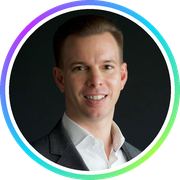
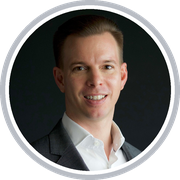
Add files via upload

Changed region(s): [[0.0, 0.0, 1.0, 1.0]]

diff --git a/reinhard.html b/reinhard.html
@@ -7,7 +7,7 @@
 button{background:#00AFCA;color:#fff;border:0;border-radius:8px;padding:12px 22px;font-size:15px;font-weight:700;cursor:pointer}
 #ok{display:none;color:#1a7f4b;font-weight:700;margin-left:12px}ol{color:#39424F;line-height:1.7}</style></head><body><div class="w">
 <h1>Dr Reinhard Fellmann</h1><p>Your BITX email signature. Click the button, then paste it into Gmail.</p>
-<div class="box" id="sig"><table cellpadding="0" cellspacing="0" border="0" bgcolor="#FFFFFF" style="border-collapse:collapse;background-color:#FFFFFF;font-family:'Inter',Helvetica,Arial,sans-serif;"><tr><td style="padding:8px 0 4px 0;"><table cellpadding="0" cellspacing="0" border="0" style="border-collapse:collapse;"><tr><td valign="middle" style="width:90px;padding-right:13px;"><img src="https://ichrak-l.github.io/email-assets-277/circle-reinhard@2x.png?v=39ccdc66" width="90" height="90" alt="Dr Reinhard Fellmann" style="display:block;width:90px;height:90px;border:0;"></td><td valign="middle" style="padding-right:33px;"><div style="font-family:'Inter',Helvetica,Arial,sans-serif;font-size:15px;line-height:18px;font-weight:800;letter-spacing:-0.2px;color:#040C17;white-space:nowrap;">Dr Reinhard Fellmann</div><div style="font-family:'Inter',Helvetica,Arial,sans-serif;font-size:10px;line-height:13px;color:#040C17;padding-top:2px;white-space:nowrap;">CEO</div><table cellpadding="0" cellspacing="0" border="0" style="border-collapse:collapse;margin-top:10px;"><tr><td valign="top" style="padding:2px 8px 0 0;width:11px;"><img src="https://ichrak-l.github.io/email-assets-277/icon-phone@2x.png" width="11" height="11" alt="Phone" style="display:block;width:11px;height:11px;border:0;"></td><td valign="top" style="padding-top:0px;font-family:'Inter',Helvetica,Arial,sans-serif;font-size:10px;line-height:15px;color:#040C17;white-space:nowrap;"><a href="tel:+971568883855" style="color:#040C17;text-decoration:none;">+971 56 888 3855</a></td></tr><tr><td valign="top" style="padding:6px 8px 0 0;width:11px;"><img src="https://ichrak-l.github.io/email-assets-277/icon-mail@2x.png" width="11" height="11" alt="Email" style="display:block;width:11px;height:11px;border:0;"></td><td valign="top" style="padding-top:4px;font-family:'Inter',Helvetica,Arial,sans-serif;font-size:10px;line-height:15px;color:#040C17;white-space:nowrap;"><a href="mailto:reinhard@bitx.es" style="color:#040C17;text-decoration:none;">reinhard@bitx.es</a></td></tr></table></td><td valign="middle" style="width:1px;font-size:0;line-height:0;"><div style="width:1px;height:96px;background-color:#C9D0D9;font-size:0;line-height:96px;">&nbsp;</div></td><td valign="middle" style="padding-left:22px;padding-right:20px;"><img src="https://ichrak-l.github.io/email-assets-277/logo-bitx@2x.png?v=4dd68a3f" width="59" height="18" alt="BITX" style="display:block;width:59px;height:18px;border:0;"><table cellpadding="0" cellspacing="0" border="0" style="border-collapse:collapse;margin-top:12px;"><tr><td valign="top" style="padding:2px 8px 0 0;width:11px;"><img src="https://ichrak-l.github.io/email-assets-277/icon-pin@2x.png?v=36849157" width="11" height="11" alt="Address" style="display:block;width:11px;height:11px;border:0;"></td><td valign="top" style="padding-top:0px;font-family:'Inter',Helvetica,Arial,sans-serif;font-size:10px;line-height:15px;color:#040C17;white-space:nowrap;"><a href="https://www.google.com/maps/search/?api=1&query=Passeig%20de%20Gr%C3%A0cia%2053%2C%2008007%20Barcelona%2C%20Spain" style="color:#040C17;text-decoration:none;">Passeig de Gr&agrave;cia 53, &Agrave;tic<br>08007 Barcelona, Spain</a></td></tr><tr><td valign="top" style="padding:8px 8px 0 0;width:11px;"><img src="https://ichrak-l.github.io/email-assets-277/icon-web@2x.png" width="11" height="11" alt="Website" style="display:block;width:11px;height:11px;border:0;"></td><td valign="top" style="padding-top:6px;font-family:'Inter',Helvetica,Arial,sans-serif;font-size:10px;line-height:15px;color:#00AFCA;white-space:nowrap;"><a href="https://www.bitx.es" style="color:#00AFCA;text-decoration:underline;">www.bitx.es</a></td></tr></table></td><td valign="middle" style="width:65px;"><img src="https://ichrak-l.github.io/email-assets-277/qr-reinhard@2x.png?v=50467b59" width="65" height="65" alt="Scan to save contact" style="display:block;width:65px;height:65px;border:0;"></td></tr></table><div style="height:1px;line-height:1px;font-size:0;background-color:#C9D0D9;margin:12px 0 9px 0;">&nbsp;</div><div style="max-width:560px;"><p style="margin:0 0 2px 0;font-family:Helvetica,Arial,sans-serif;font-size:8px;line-height:11px;font-weight:bold;letter-spacing:0.4px;color:#040C17;">DISCLAIMER</p><p style="margin:0 0 4px 0;font-family:Helvetica,Arial,sans-serif;font-size:8px;line-height:11px;color:#6B7480;">The information contained in this message and/or any attached files, sent from BITX, S.L., is confidential and/or legally privileged and is intended solely for the use of the individual(s) to whom it is addressed. Please note that your personal data has been incorporated into the processing systems of BITX, S.L., and that, provided the legal requirements are met, you may exercise your rights of access, rectification, restriction of processing, erasure (right to be forgotten), data portability, objection, and withdrawal by sending a written request to <a href="https://www.google.com/maps/search/?api=1&query=Passeig%20de%20Gr%C3%A0cia%2053%2C%2008007%20Barcelona%2C%20Spain" style="color:#6B7480;text-decoration:underline;">Passeig de Gr&agrave;cia 53</a>, &Agrave;tic, 08007 Barcelona (Spain), or by email to <a href="mailto:legal@bitx.es" style="color:#6B7480;text-decoration:underline;">legal@bitx.es</a>.</p><p style="margin:0 0 4px 0;font-family:Helvetica,Arial,sans-serif;font-size:8px;line-height:11px;color:#6B7480;">If you have received this message in error, are not the intended recipient, the employee, or the agent responsible for delivering it, please be advised that any use, disclosure, distribution, or reproduction of this communication is strictly prohibited and may be unlawful. We kindly ask you to notify us immediately and delete the message, as well as destroy any copies you may have. Thank you.</p></div></td></tr></table></div>
+<div class="box" id="sig"><table cellpadding="0" cellspacing="0" border="0" bgcolor="#FFFFFF" style="border-collapse:collapse;background-color:#FFFFFF;font-family:'Inter',Helvetica,Arial,sans-serif;"><tr><td style="padding:8px 0 4px 0;"><table cellpadding="0" cellspacing="0" border="0" style="border-collapse:collapse;"><tr><td valign="middle" style="width:90px;padding-right:13px;"><img src="https://ichrak-l.github.io/email-assets-277/circle-reinhard@2x.png?v=e76f2da4" width="90" height="90" alt="Dr Reinhard Fellmann" style="display:block;width:90px;height:90px;border:0;"></td><td valign="middle" style="padding-right:33px;"><div style="font-family:'Inter','Segoe UI',-apple-system,BlinkMacSystemFont,Helvetica,Arial,sans-serif;font-size:15px;line-height:18px;font-weight:600;letter-spacing:-0.1px;color:#040C17;white-space:nowrap;">Dr Reinhard Fellmann</div><div style="font-family:'Inter',Helvetica,Arial,sans-serif;font-size:10px;line-height:13px;color:#040C17;padding-top:2px;white-space:nowrap;">CEO</div><table cellpadding="0" cellspacing="0" border="0" style="border-collapse:collapse;margin-top:10px;"><tr><td valign="top" style="padding:2px 8px 0 0;width:11px;"><img src="https://ichrak-l.github.io/email-assets-277/icon-phone@2x.png?v=85436a73" width="11" height="11" alt="Phone" style="display:block;width:11px;height:11px;border:0;"></td><td valign="top" style="padding-top:0px;font-family:'Inter',Helvetica,Arial,sans-serif;font-size:10px;line-height:15px;color:#040C17;white-space:nowrap;"><a href="tel:+971568883855" style="color:#040C17;text-decoration:none;">+971 56 888 3855</a></td></tr><tr><td valign="top" style="padding:6px 8px 0 0;width:11px;"><img src="https://ichrak-l.github.io/email-assets-277/icon-mail@2x.png?v=8dcb3aac" width="11" height="11" alt="Email" style="display:block;width:11px;height:11px;border:0;"></td><td valign="top" style="padding-top:4px;font-family:'Inter',Helvetica,Arial,sans-serif;font-size:10px;line-height:15px;color:#040C17;white-space:nowrap;"><a href="mailto:reinhard@bitx.es" style="color:#040C17;text-decoration:none;">reinhard@bitx.es</a></td></tr></table></td><td valign="middle" style="width:1px;font-size:0;line-height:0;"><div style="width:1px;height:96px;background-color:#C9D0D9;font-size:0;line-height:96px;">&nbsp;</div></td><td valign="middle" style="padding-left:22px;padding-right:20px;"><img src="https://ichrak-l.github.io/email-assets-277/logo-bitx@2x.png?v=4dd68a3f" width="59" height="18" alt="BITX" style="display:block;width:59px;height:18px;border:0;"><table cellpadding="0" cellspacing="0" border="0" style="border-collapse:collapse;margin-top:12px;"><tr><td valign="top" style="padding:2px 8px 0 0;width:11px;"><img src="https://ichrak-l.github.io/email-assets-277/icon-pin@2x.png?v=36849157" width="11" height="11" alt="Address" style="display:block;width:11px;height:11px;border:0;"></td><td valign="top" style="padding-top:0px;font-family:'Inter',Helvetica,Arial,sans-serif;font-size:10px;line-height:15px;color:#040C17;white-space:nowrap;"><a href="https://www.google.com/maps/search/?api=1&query=Passeig%20de%20Gr%C3%A0cia%2053%2C%2008007%20Barcelona%2C%20Spain" style="color:#040C17;text-decoration:none;">Passeig de Gr&agrave;cia 53, &Aacute;tico<br>08007 Barcelona, Spain</a></td></tr><tr><td valign="top" style="padding:8px 8px 0 0;width:11px;"><img src="https://ichrak-l.github.io/email-assets-277/icon-web@2x.png?v=d0a83420" width="11" height="11" alt="Website" style="display:block;width:11px;height:11px;border:0;"></td><td valign="top" style="padding-top:6px;font-family:'Inter',Helvetica,Arial,sans-serif;font-size:10px;line-height:15px;color:#00AFCA;white-space:nowrap;"><a href="https://www.bitx.es" style="color:#00AFCA;text-decoration:underline;">www.bitx.es</a></td></tr></table></td><td valign="middle" style="width:65px;"><img src="https://ichrak-l.github.io/email-assets-277/qr-reinhard@2x.png?v=50467b59" width="65" height="65" alt="Scan to save contact" style="display:block;width:65px;height:65px;border:0;"></td></tr></table><div style="height:1px;line-height:1px;font-size:0;background-color:#C9D0D9;margin:12px 0 9px 0;">&nbsp;</div><div style="max-width:560px;"><p style="margin:0 0 2px 0;font-family:Helvetica,Arial,sans-serif;font-size:8px;line-height:11px;font-weight:bold;letter-spacing:0.4px;color:#040C17;">DISCLAIMER</p><p style="margin:0 0 4px 0;font-family:Helvetica,Arial,sans-serif;font-size:8px;line-height:11px;color:#6B7480;">The information contained in this message and/or any attached files, sent from BITX, S.L., is confidential and/or legally privileged and is intended solely for the use of the individual(s) to whom it is addressed. Please note that your personal data has been incorporated into the processing systems of BITX, S.L., and that, provided the legal requirements are met, you may exercise your rights of access, rectification, restriction of processing, erasure (right to be forgotten), data portability, objection, and withdrawal by sending a written request to <a href="https://www.google.com/maps/search/?api=1&query=Passeig%20de%20Gr%C3%A0cia%2053%2C%2008007%20Barcelona%2C%20Spain" style="color:#6B7480;text-decoration:underline;">Passeig de Gr&agrave;cia 53</a>, &Agrave;tic, 08007 Barcelona (Spain), or by email to <a href="mailto:legal@bitx.es" style="color:#6B7480;text-decoration:underline;">legal@bitx.es</a>.</p><p style="margin:0 0 4px 0;font-family:Helvetica,Arial,sans-serif;font-size:8px;line-height:11px;color:#6B7480;">If you have received this message in error, are not the intended recipient, the employee, or the agent responsible for delivering it, please be advised that any use, disclosure, distribution, or reproduction of this communication is strictly prohibited and may be unlawful. We kindly ask you to notify us immediately and delete the message, as well as destroy any copies you may have. Thank you.</p></div></td></tr></table></div>
 <button id="b">Copy signature</button><span id="ok">Copied</span>
 <ol><li>Click <b>Copy signature</b>.</li><li>In Gmail: gear icon, <b>See all settings</b>, <b>General</b> tab, <b>Signature</b>, <b>Create new</b> (or replace the old one).</li>
 <li>Click in the box and paste (Ctrl/Cmd + V).</li><li>Choose it under <b>Signature defaults</b>, then scroll down and click <b>Save Changes</b>.</li></ol></div>
